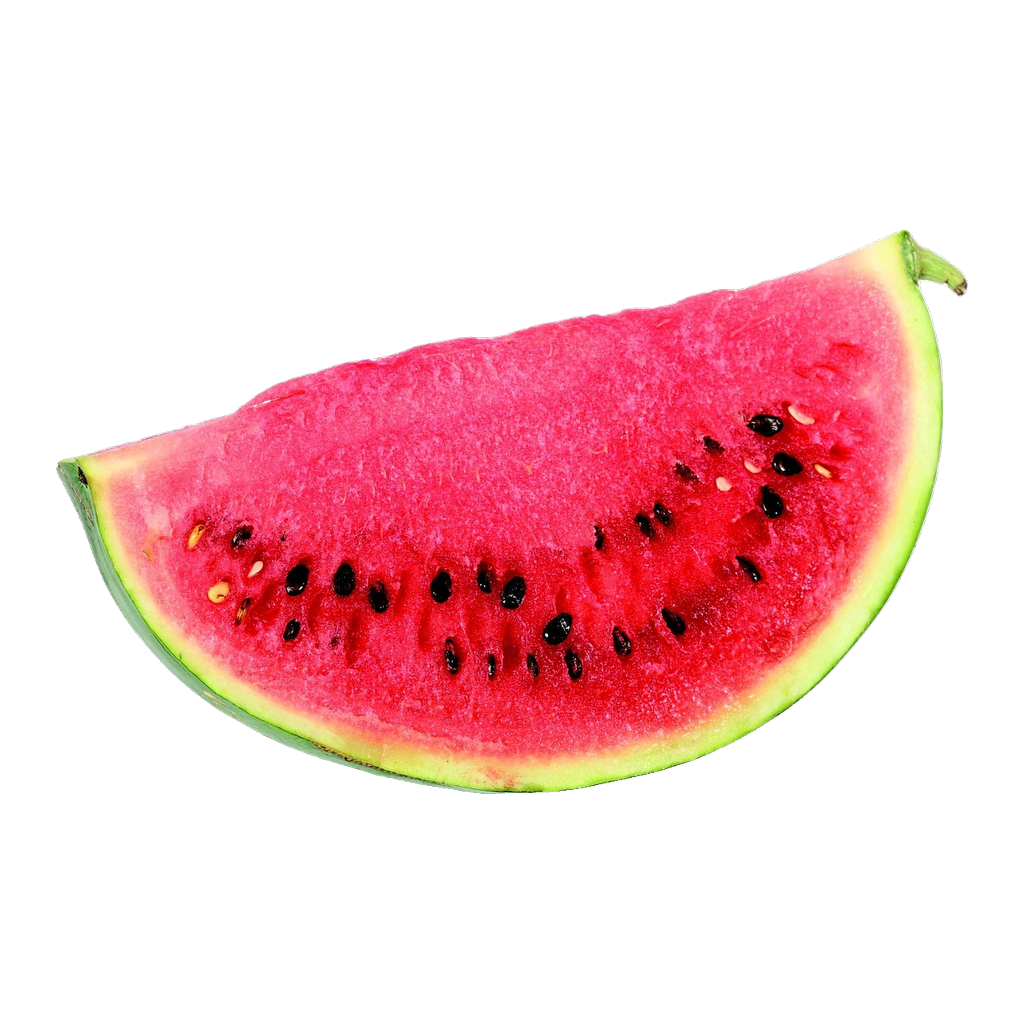
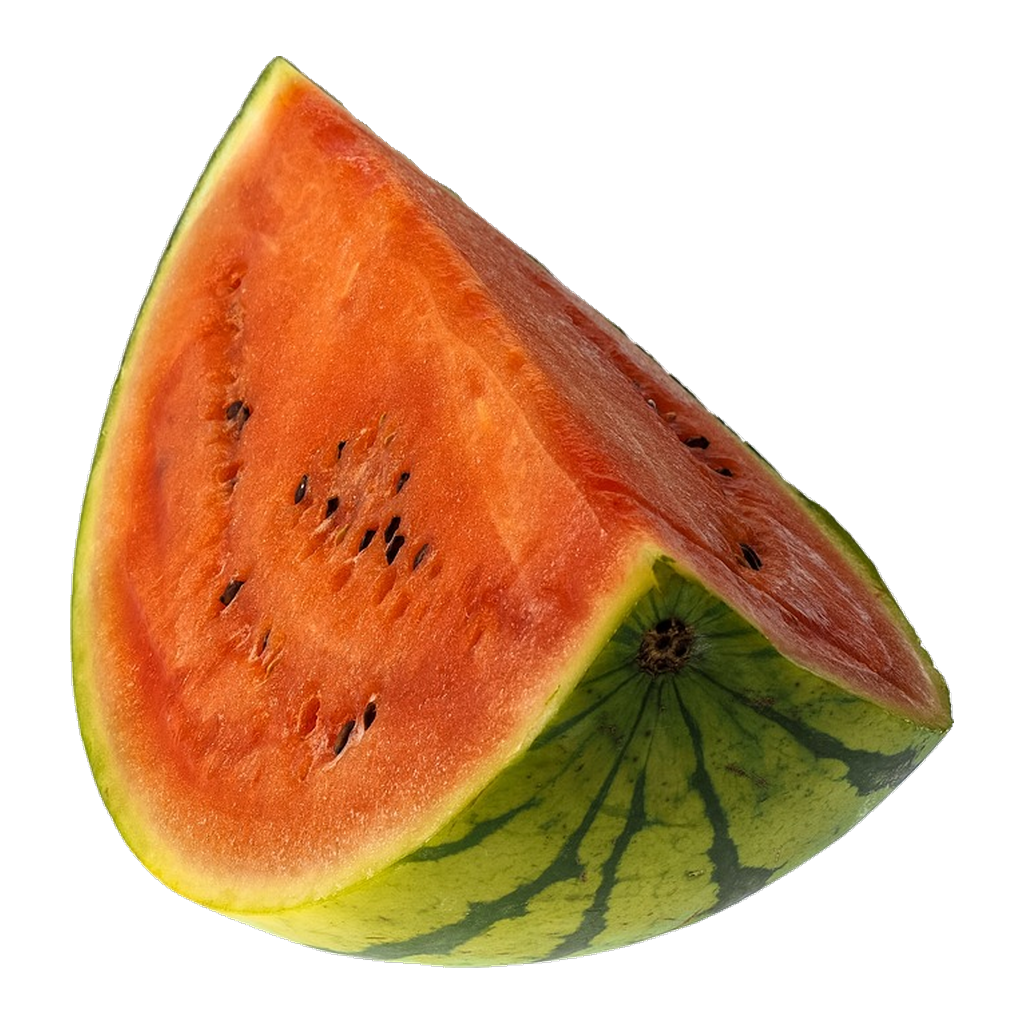
Compact mandarin and watermelon wedge photos so they read as large as the others; version 2.0.14 (28)

diff --git a/assets/content/REAL_PHOTOS.md b/assets/content/REAL_PHOTOS.md
@@ -421,22 +421,22 @@ Attempt folder: `artifacts/produce-photos-attempt-r32-01/`. Local technical revi
 ## produce.mandarin
 
 File: `assets/images/produce/mandarin_real.png`
-Photo author: PublicDomainPictures (Pixabay)
-Source: https://pixabay.com/photos/citrus-clementine-food-fresh-fruit-2393/
+Photo author: Saramukitza (Pixabay)
+Source: https://pixabay.com/photos/mandarin-orange-clementines-fruit-1944930/
 Source and adaptation license: Pixabay Content License - https://pixabay.com/service/license-summary/
[2 lines of base64/hex data omitted]
-Changes: One whole clementine/mandarin with two green leaves on its stem. Foreground alpha with rembg U2Net (largest region kept, holes filled, original RGB retained); alpha-bound crop, aspect-preserving Lanczos resize to a 912 px maximum subject extent, centered 1024x1024 RGBA export and 4 px white outer outline (tools/adapt_cutout_photo.py). No generative editing.
[2 lines of base64/hex data omitted]
+Changes: One whole mandarin with a short stem and one green leaf. Foreground alpha with rembg U2Net (largest region kept, holes filled, original RGB retained); alpha-bound crop, aspect-preserving Lanczos resize to a 912 px maximum subject extent, centered 1024x1024 RGBA export and 4 px white outer outline (tools/adapt_cutout_photo.py). No generative editing.
 
 ## produce.watermelon
 
 File: `assets/images/produce/watermelon_1.png`
-Photo author: segobou (Pixabay)
-Source: https://pixabay.com/photos/watermelon-summer-sweet-berrie-1504404/
+Photo author: TBIT (Pixabay)
+Source: https://pixabay.com/photos/melon-fruit-food-edible-yummy-943753/
 Source and adaptation license: Pixabay Content License - https://pixabay.com/service/license-summary/
[2 lines of base64/hex data omitted]
-Changes: One classic watermelon slice: red flesh, black seeds, green rind. Foreground alpha with rembg U2Net (largest region kept, holes filled, original RGB retained); alpha-bound crop, aspect-preserving Lanczos resize to a 912 px maximum subject extent, centered 1024x1024 RGBA export and 4 px white outer outline (tools/adapt_cutout_photo.py). No generative editing.
[2 lines of base64/hex data omitted]
+Changes: One thick watermelon wedge: red flesh, black seeds, striped green rind. Foreground alpha with rembg U2Net (largest region kept, holes filled, original RGB retained); alpha-bound crop, aspect-preserving Lanczos resize to a 912 px maximum subject extent, centered 1024x1024 RGBA export and 4 px white outer outline (tools/adapt_cutout_photo.py). No generative editing.
 
 ## produce.onion
 
